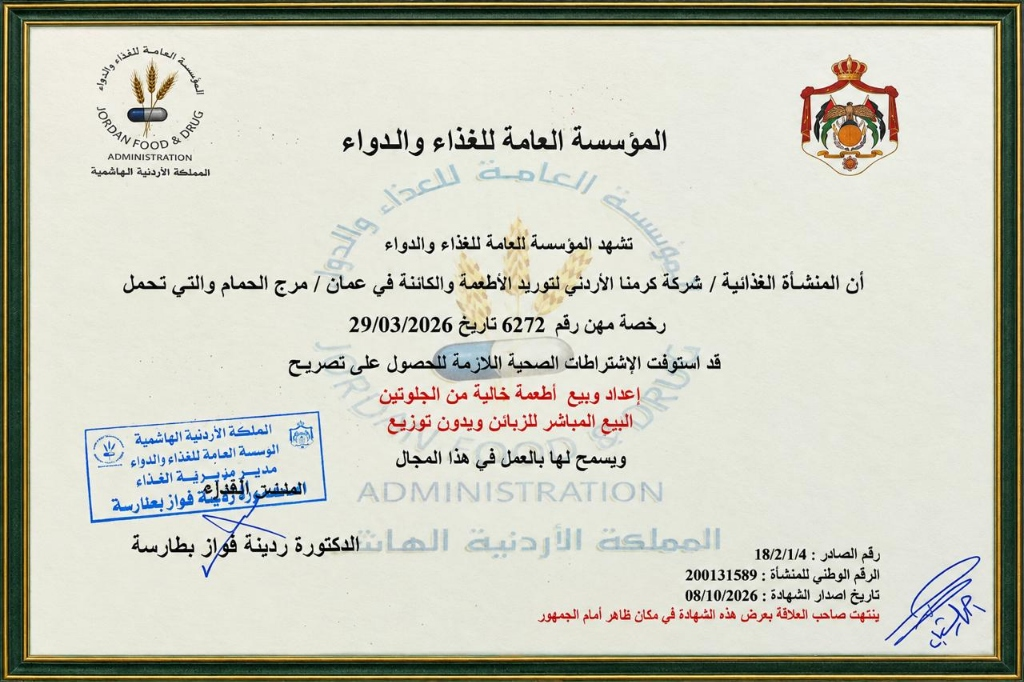
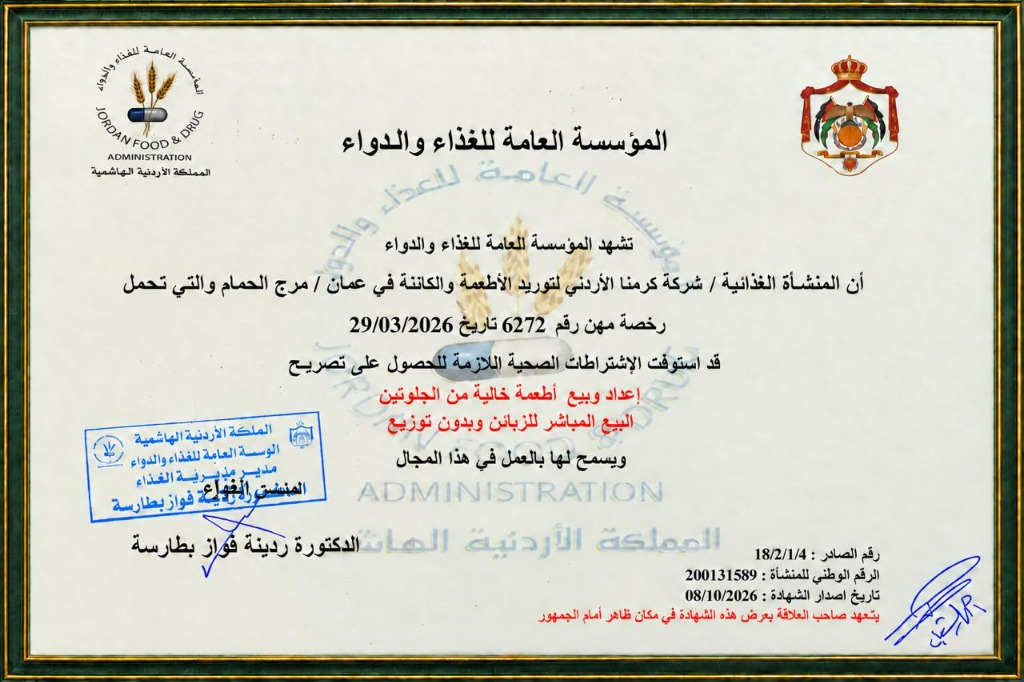
fix(cert): update JFDA license certificate image on menu and about pages

diff --git a/assets/js/customer.js b/assets/js/customer.js
@@ -476,7 +476,7 @@ const CustomerApp = {
           </div>
 
           <div class="menu-cert-img-wrap" onclick="CustomerApp.openCertificateLightbox()" role="button" tabindex="0" aria-label="${i18n('jfda_cert_zoom')}" onkeydown="if(event.key==='Enter'||event.key===' ')CustomerApp.openCertificateLightbox()">
-            <img src="assets/images/jfda_cert.jpg" alt="${i18n('jfda_cert_title')}" class="menu-cert-img" loading="lazy" />
+            <img src="assets/images/jfda_cert.jpg?v=2" alt="${i18n('jfda_cert_title')}" class="menu-cert-img" loading="lazy" />
             <div class="menu-cert-zoom-overlay">
               <span>${i18n("jfda_cert_zoom")}</span>
             </div>
@@ -588,7 +588,7 @@ const CustomerApp = {
       overlay.innerHTML = `
         <div class="cert-lightbox-box" onclick="event.stopPropagation()">
           <button class="cert-lightbox-close" onclick="CustomerApp.closeCertificateLightbox()" aria-label="Close">✕</button>
-          <img src="assets/images/jfda_cert.jpg" alt="${i18n('jfda_cert_title')}" class="cert-lightbox-img" />
+          <img src="assets/images/jfda_cert.jpg?v=2" alt="${i18n('jfda_cert_title')}" class="cert-lightbox-img" />
           <div class="cert-lightbox-caption">${i18n("jfda_cert_title")} • ${i18n("jfda_cert_sub")}</div>
         </div>
       `;
@@ -1570,7 +1570,7 @@ const CustomerApp = {
             </div>
 
             <div class="menu-cert-img-wrap" onclick="CustomerApp.openCertificateLightbox()" role="button" tabindex="0" aria-label="${i18n('jfda_cert_zoom')}" onkeydown="if(event.key==='Enter'||event.key===' ')CustomerApp.openCertificateLightbox()">
-              <img src="assets/images/jfda_cert.jpg" alt="${i18n('jfda_cert_title')}" class="menu-cert-img" loading="lazy" />
+              <img src="assets/images/jfda_cert.jpg?v=2" alt="${i18n('jfda_cert_title')}" class="menu-cert-img" loading="lazy" />
               <div class="menu-cert-zoom-overlay">
                 <span>${i18n("jfda_cert_zoom")}</span>
               </div>

diff --git a/index.html b/index.html
@@ -180,7 +180,7 @@
   <script src="assets/js/i18n.js?v=1.2"></script>
   <script src="assets/js/subscriptions.js"></script>
   <script src="assets/js/store.js?v=1.1"></script>
-  <script src="assets/js/customer.js?v=1.4"></script>
+  <script src="assets/js/customer.js?v=1.5"></script>
   <script src="assets/js/admin.js?v=1.2"></script>
   <script src="assets/js/app.js?v=1.1"></script>
 </body>
